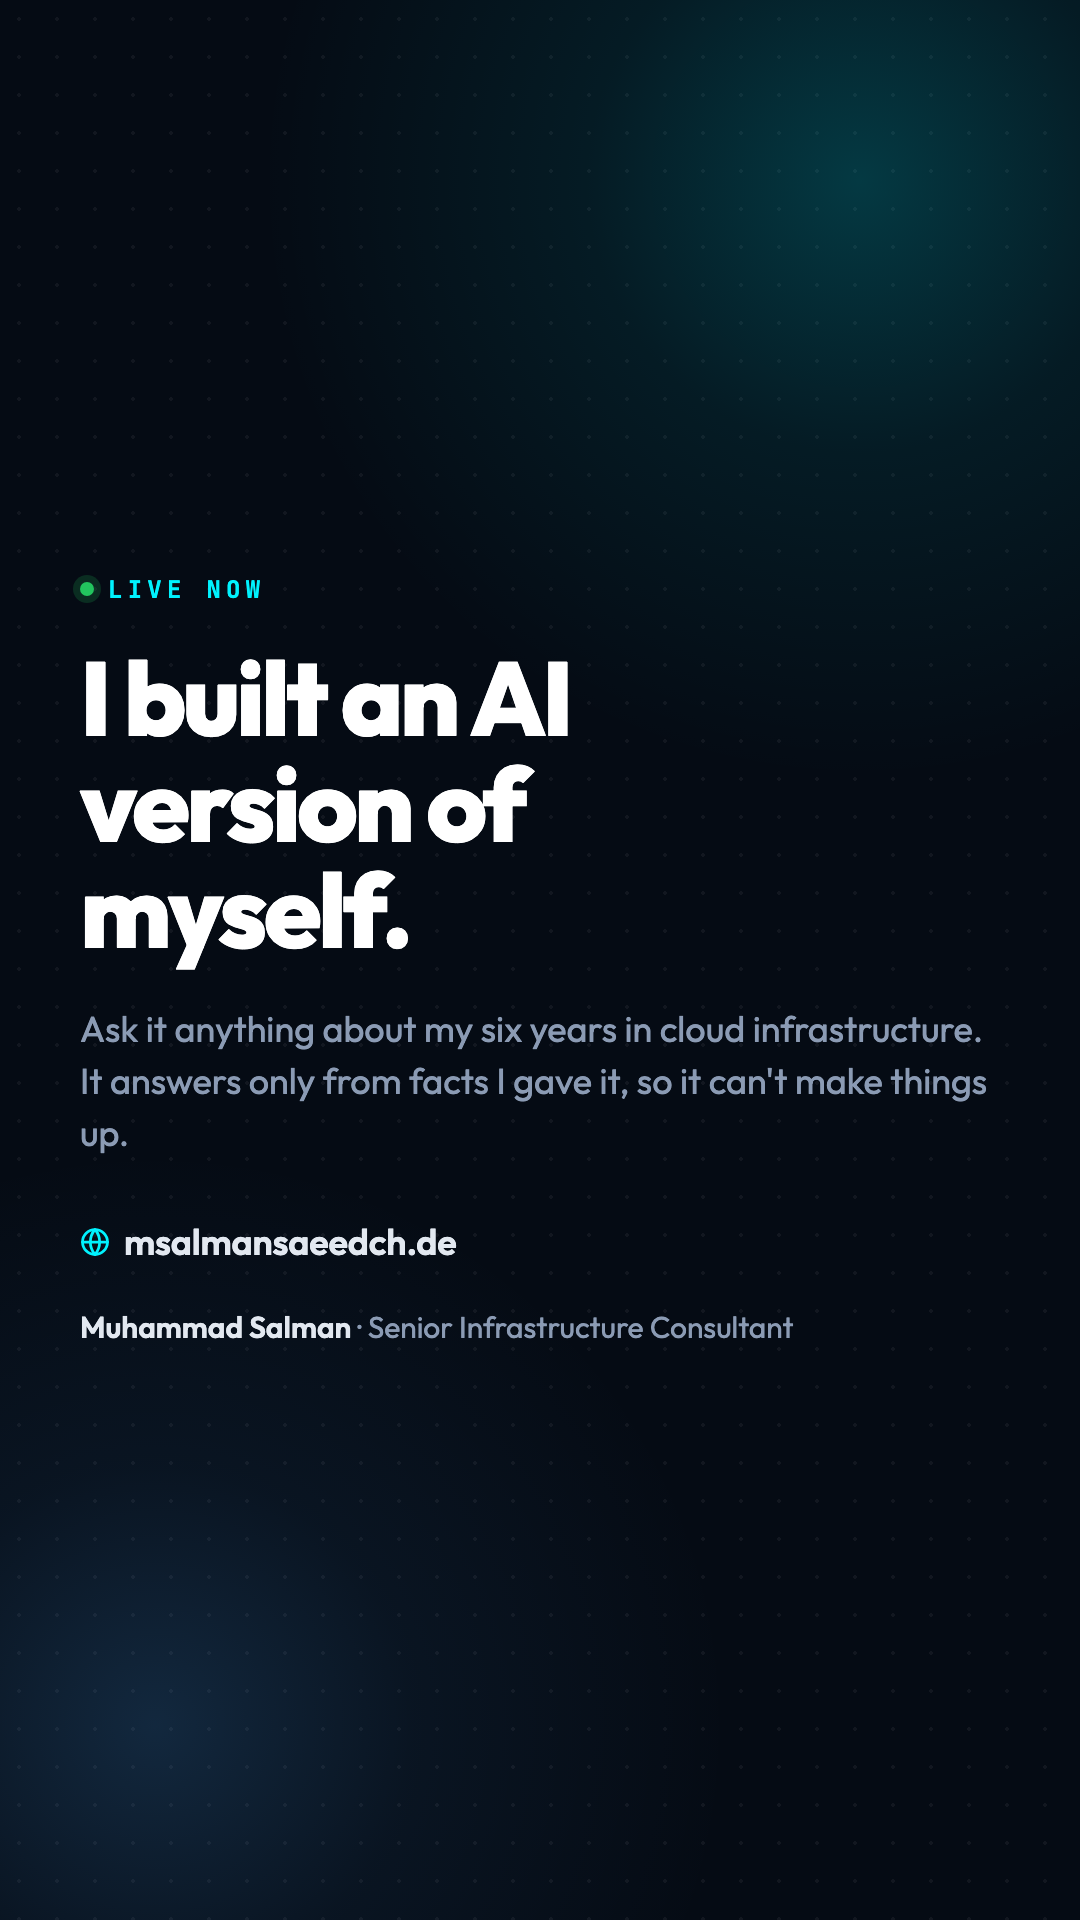
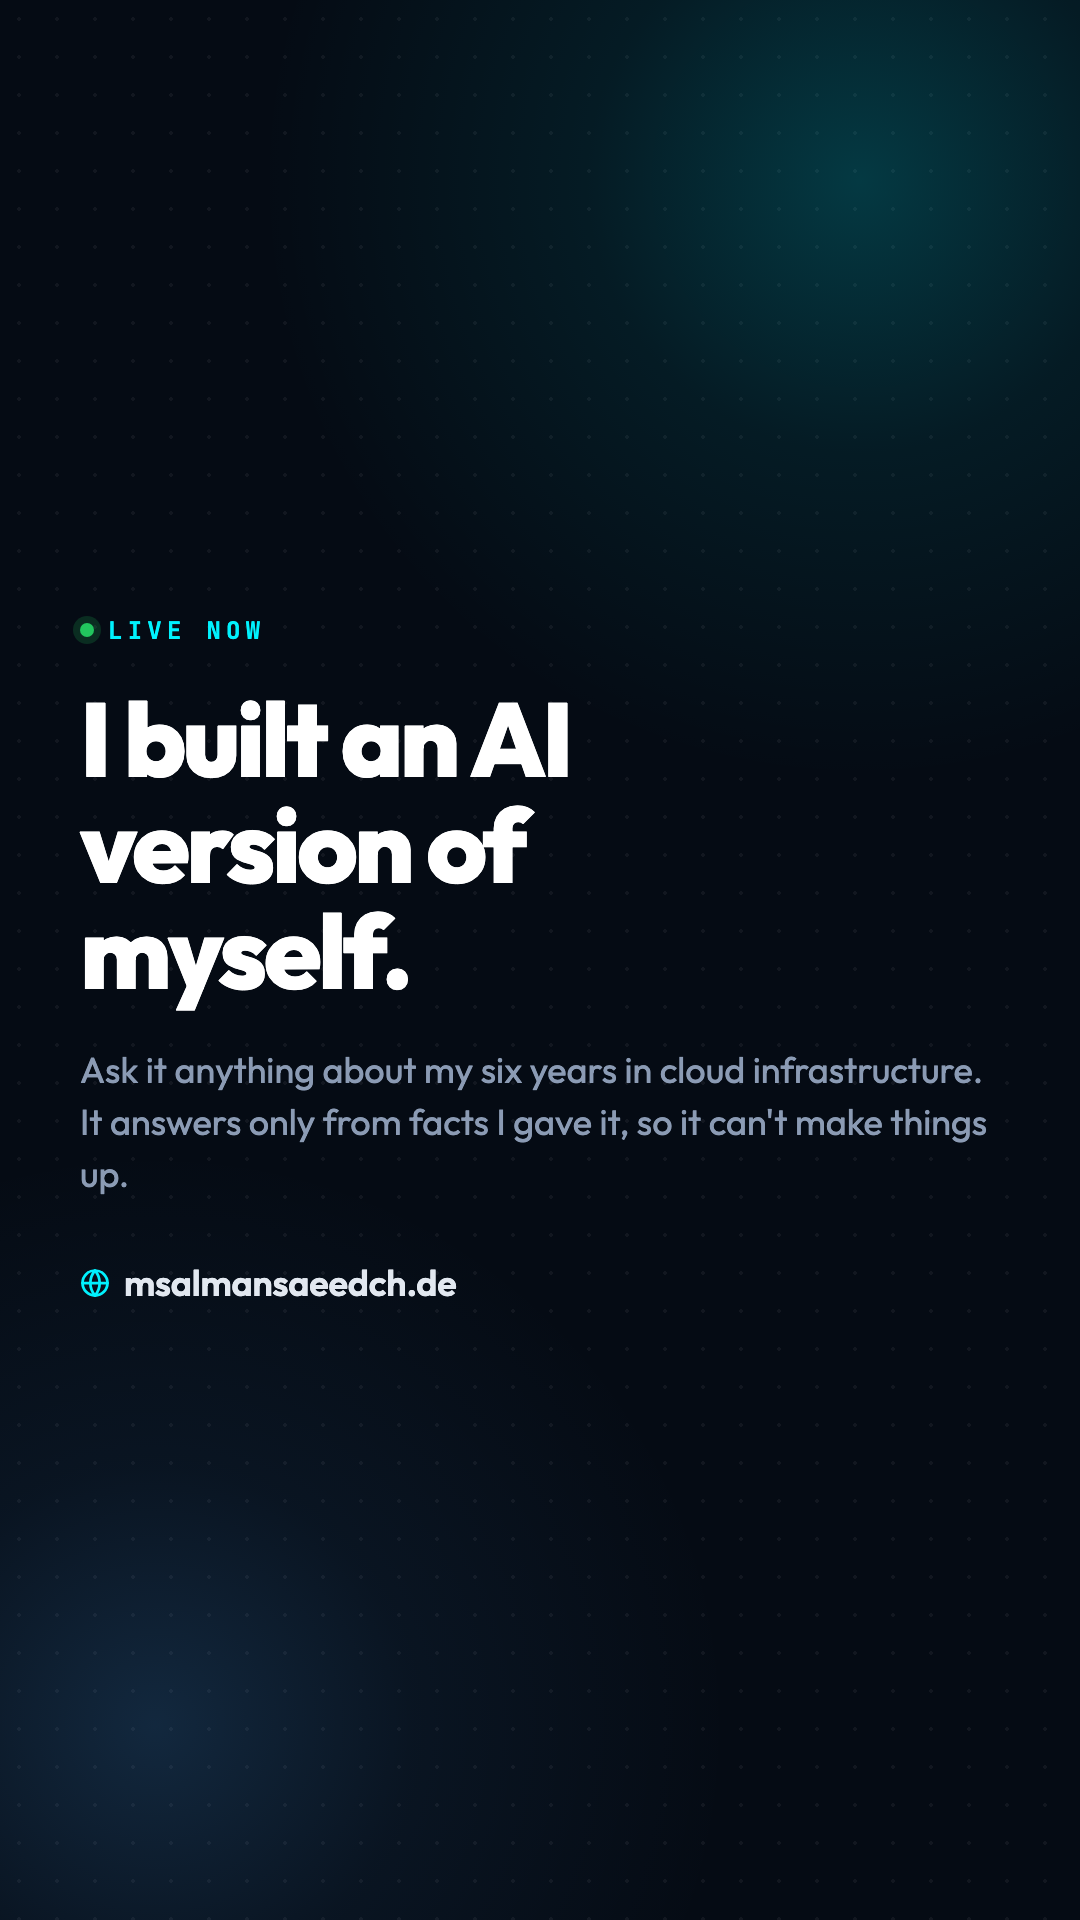
docs: drop the byline from the opening story frame
Your handle is already on screen in the story header, so the name and
title were repeating it. Removes the rule too, since frame 1 was its
only user.

Changed region(s): [[0.0611, 0.2812, 0.9167, 0.7188], [0.4278, 0.6875, 0.7333, 0.7188]]

diff --git a/scripts/stories.html b/scripts/stories.html
@@ -107,9 +107,6 @@
   }
   .url-quiet svg{width:30px;height:30px;color:var(--neon-cyan)}
 
-  .by{margin-top:44px;font-size:30px;color:var(--muted)}
-  .by b{font-weight:600;color:var(--muted-strong)}
-
   /* chat proof */
   .chat{
     background:var(--surface);border:1px solid var(--surface-border);
@@ -159,7 +156,6 @@
         <path d="M12 2a15.3 15.3 0 0 1 0 20a15.3 15.3 0 0 1 0-20z"/>
       </svg>msalmansaeedch.de
     </span></div>
-    <div class="by"><b>Muhammad Salman</b> · Senior Infrastructure Consultant</div>
   </div>
 </div>
 
